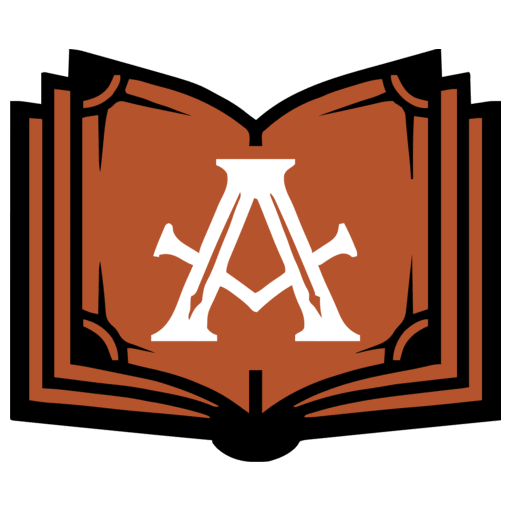
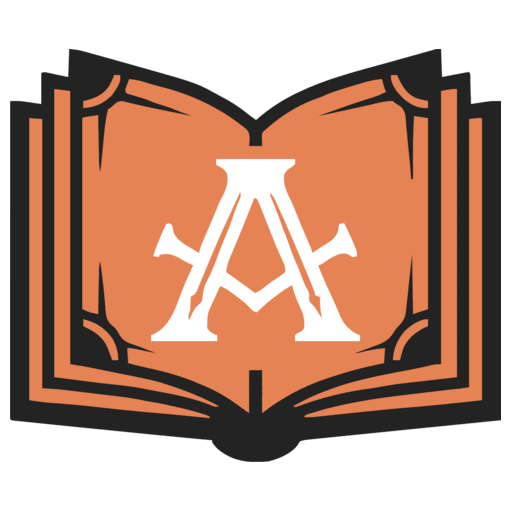
checkpoint

diff --git a/build_assets.py b/build_assets.py
@@ -19,7 +19,7 @@ OUT = ROOT / "assets"
 BG = "#f7f1e6"      # page --bg (light)
 INK = "#2a2118"     # --ink
 MUTED = "#7a6b5a"   # --muted
-ACCENT = "#b5532c"  # --accent
+ACCENT = "#E68355"  # --accent
 FONTS = Path("/System/Library/Fonts/Supplemental")
 FONT_BOLD = FONTS / "Georgia Bold.ttf"
 FONT_ITALIC = FONTS / "Georgia Italic.ttf"
